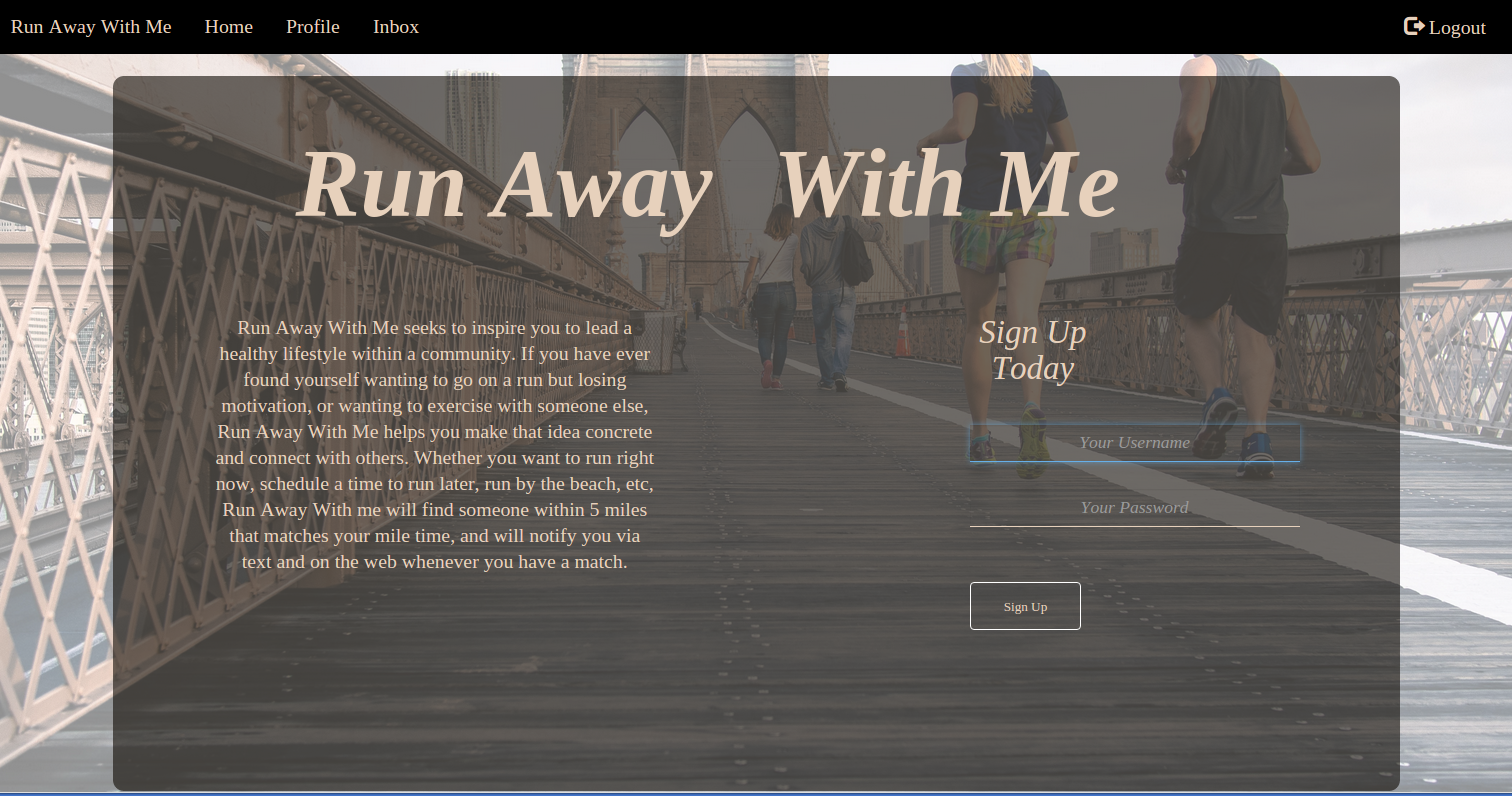
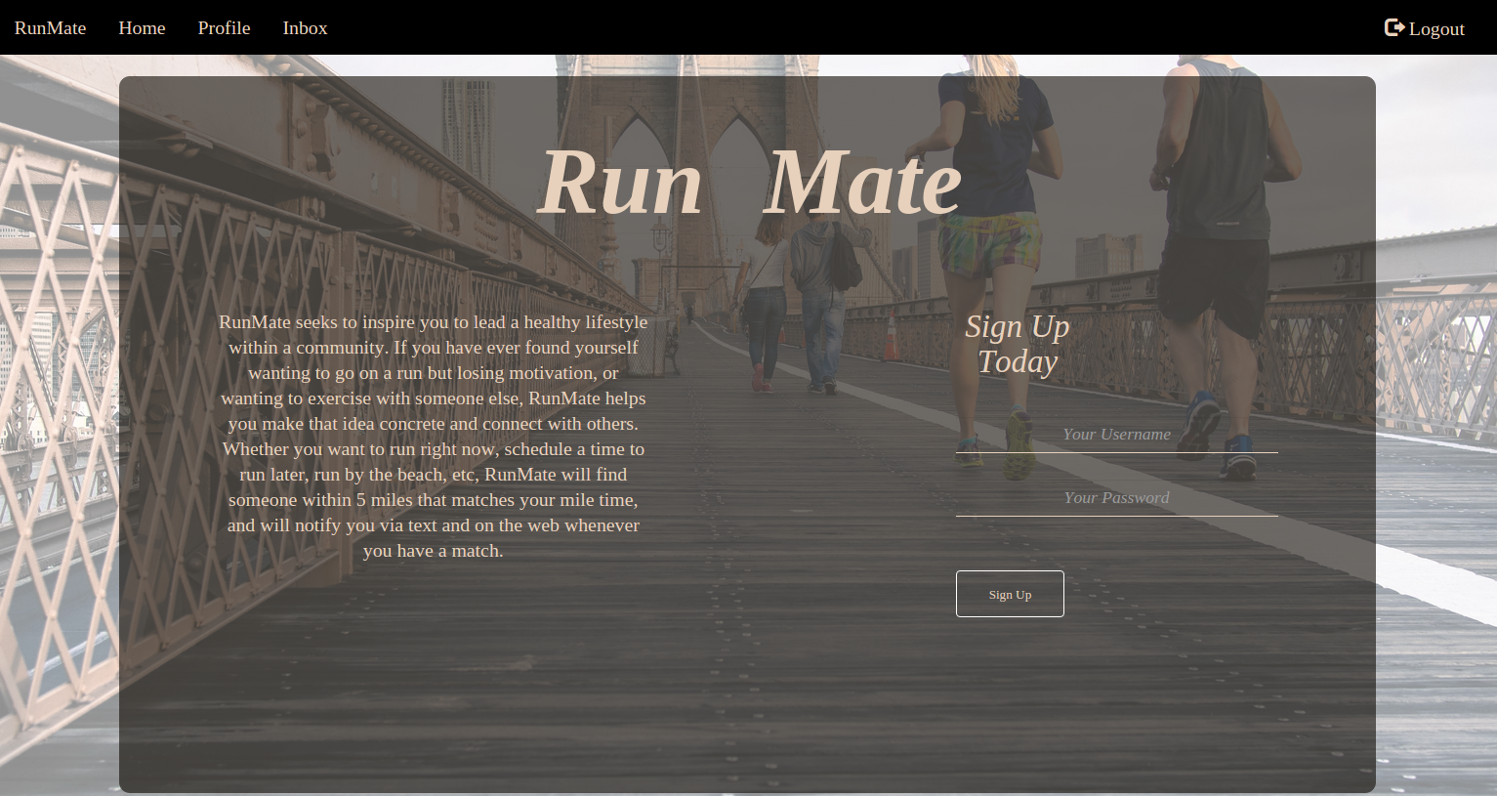
updated README

diff --git a/templates/homepage.html b/templates/homepage.html
@@ -16,13 +16,13 @@
 	<div class="row">
 		<div>
 			<div class="col-xs-12 col-sm-12 col-md-6 col-lg-6 left">
-				<h1 id="h1left">Run Away</h1>
-				<p> Run Away With Me seeks to inspire you to lead a healthy lifestyle within a community. If you have ever found yourself wanting to go on a run but losing motivation, or wanting to exercise with someone else, Run Away With Me helps you make that idea concrete and connect with others. Whether you want to run right now, schedule a time to run later, run by the beach, etc,  Run Away With me will find someone within 5 miles that matches your mile time, and will notify you via text and on the web whenever you have a match. </p>
+				<h1 id="h1left">Run</h1>
+				<p> RunMate seeks to inspire you to lead a healthy lifestyle within a community. If you have ever found yourself wanting to go on a run but losing motivation, or wanting to exercise with someone else, RunMate helps you make that idea concrete and connect with others. Whether you want to run right now, schedule a time to run later, run by the beach, etc,  RunMate will find someone within 5 miles that matches your mile time, and will notify you via text and on the web whenever you have a match. </p>
 			</div>
 		</div>
 		<div>
             <div class="col-xs-12 col-sm-12 col-md-6 col-lg-6 right">
-                <h1 id="h1right"> With Me </h1>	
+                <h1 id="h1right">Mate</h1>	
                 <div class="col-md-4 col-md-offset-3">
 <!--                 NICE-TO-HAVE: sign-up page yet to be connected to server.  -->
                 	<h2 id="signup">Sign Up Today</h2>

diff --git a/templates/base.html b/templates/base.html
@@ -14,7 +14,7 @@
     <nav class="navbar navbar-default">
         <div class="container-fluid">
             <div class="navbar-header">
-                <a class="navbar-brand" href="#">Run Away With Me</a>
+                <a class="navbar-brand" href="#">RunMate</a>
             </div>
             <div id="navbar" class="navbar-collapse collapse">
                 <ul class="nav navbar-nav">
@@ -35,7 +35,7 @@
     <nav class="navbar navbar-default">
         <div class="container-fluid">
             <div class="navbar-header">
-                <a class="navbar-brand" href="#">Run Away With Me</a>
+                <a class="navbar-brand" href="#">RunMate</a>
             </div>
             <div>
                 <ul class="nav navbar-nav">

diff --git a/README.md b/README.md
@@ -1,11 +1,16 @@
-# Run Away With Me
+# RunMate
 
-Have you ever found yourself wanting to run, but losing motivation, wanting accountability, or just wanting someone esle to share the joy (or pain) along with you? *Run Away With Me* is a full stack web application that helps you make that idea concrete and connect with others. Whether you feel inspired to run right now or want to schedule a time to run later,  *Run Away With Me* takes a user's location and desired starting point, and  will find people within a 5 mile radius that also want to run and that is close to your mile time. It will notify both of the runners via text and the user's inbox when a successful match has been made. 
+Have you ever found yourself wanting to run, but losing motivation, wanting accountability, or just wanting someone esle to share the joy (or pain) along with you? *RunMate* is a full stack web application that helps you make that idea concrete and connect with others. Whether you feel inspired to run right now or want to schedule a time to run later,  *RunMate* takes a user's location and desired starting point, and  will find people within a 5 mile radius that also want to run and that is close to your mile time. It will notify both of the runners via text and the user's inbox when a successful match has been made. 
 
 ![Screenshot](/static/img/HomepageScreenShot.png "Homescreen")
 
-### Technology
-*Run Away With Me* uses the following tech stack:
+## Table of Contents
+* [Technology](#technology)
+* [Improvements](#improvements)
+* [Using the App](#using)
+
+### <a name="technology"></a> Technology
+*RunMate* uses the following tech stack:
 
 * Flask - web framework
 * Python - backend
@@ -22,3 +27,52 @@ Have you ever found yourself wanting to run, but losing motivation, wanting acco
 * Google Maps API
 * Google Geocoding Service
 * Twilio API
+
+### <a name="using"></a> Using the App: 
+
+#### User's Profile ####
+
+- a user's profile shows the possible runs a user can choose and a map displying details about the run and where they are located. In order for a user to see a run, a run must be located within 5 miles of their current location (found initially at the user login), the runner has to be within a 2 min/mile difference than the user currently logged in, the run cannot be the user's own posted run, and the runs have to be active (not expired). 
+
+![Screenshot](/static/img/Userprofile.png "User's profile")
+
+#### Choosing a Run ####
+
+- The map will have details of the run that will disply if you click on the runner icon. There are two types of runs you can choose: The runs that state "run now" are runs where the creator of the run wants to run right now and are open for an invitation to run. Runs that are scheduled runs are by contrast have the date and time that the run is scheduled forOn the map, they will be displayed as such, respectively:
+
+![Image](/static/img/runningnow.png) "User wants to run now"
+![Image](/static/img/Scheduledrun.png) "User scheduled a run"
+
+- Once a user clicks on "Choose this run" for any run, they will get a confirmation message, and it will send a text to the creator of the run that they have a match and to check their inbox.
+
+#### Making a Run ####
+
+- If a user does not see a run that they like or no runs are displayed, they can always make their own run. They can either click on "run now" which has a duration and a waiting time that they are willing to wait, or "schedule a run" where a user can choose the date and the time that they want to run. They will be displayed as such, respectively:
+
+![Image](/static/img/MakingNowRun.png) "Run now"
+![Image](/static/img/MakingScheduledRun.png) "Schedule a run"
+
+- After they enter their details for either "run now" or "schedule a run," they will be taken to the following window to choose their start location. The default start location is their location at the current time: 
+
+![Image](/static/img/MarkingLocation.png) "Marking location"
+
+- Once they have finished, the user will get a confirmation on the screen signaling that the run has been created and is open.
+
+#### Accepting or Denying a Run ####
+
+- Once a user gets a text that they have a match, they can check their inbox to accept or decline. Accepting a match sends a confirmation text message to the other user and deactivates the run, since the user has already found a match. Declining a match deletes the match from the match table (the run still stays active)
+
+![Image](/static/img/inbox.png) "inbox"
+
+### <a name="improvements"></a> Improvements: 
+
+Websockets - In the future, I would like to be able to implement websockets so that as soon as a run that you have made gets a match, you will be able to accept while you are still on the website and not have to wait to accept by an inbox. This is useful especially for the users that choose the "run now" time frame
+
+Test Coverage - Write integration, unit, and doctests throughout the code in order to refactor and implement more features with the assurance that the functionallity of the app will not change. 
+
+Tracking of past runs - I would like to add another table to the database of past runs so that users will be able to document when they ran and who they ran with, as well as tracking information to see if their mile time has improved. 
+
+Seperating "run now" and scheduled runs - Right now, all possible runs are listed in the same place. I would liketo seperate the runs so that the "run now" runs that are expiring soon are displayed at the top, and the scheduled runs are ordered based on when their start date is. 
+
+Re-ocurring runs - The app accounts for users that want to run now or that want to schedule a run, but it would also be cool if users can schedule re-occuring runs (i.e. if a user usually runs on Saturdays at 11:00 AM, the user can specify that and the web app will automatically make the run)
+
